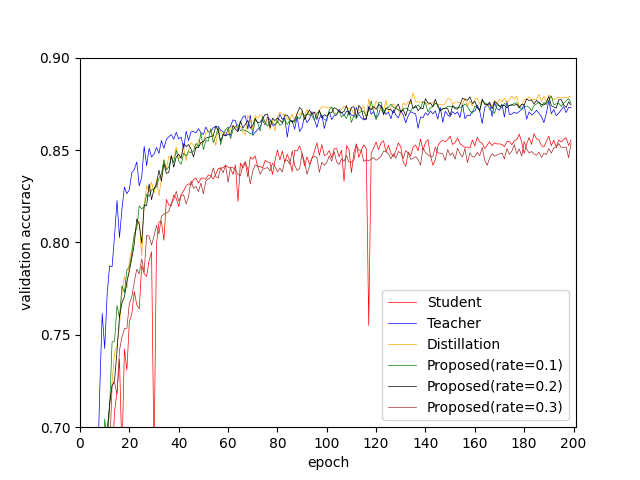
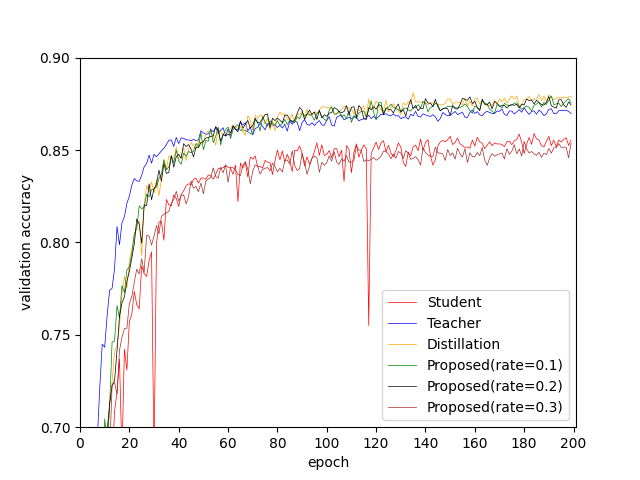
cam-distillation

Changed region(s): [[0.25, 0.2188, 0.9062, 0.3125], [0.1562, 0.3125, 0.25, 0.75], [0.125, 0.8438, 0.1562, 0.875]]

diff --git a/result.py b/result.py
@@ -13,17 +13,17 @@ def main():
     
     # loading history
     student_acc = load_hist(student_path, 1)
-    teacher_acc = load_hist(teacher_path, 1)
+    teacher_acc = load_hist(teacher_path, 5)
     st_acc = load_hist(st_path, 1)
     cam01_acc = load_hist(cam01_path, 1)
     cam02_acc = load_hist(cam02_path, 1)
-    cam03_acc = load_hist(cam05_path, 1)
+    cam05_acc = load_hist(cam05_path, 1)
     
     # print test accuracy
     student_avg = load_avg_test(student_path, 1)
     student_best = load_best_test(student_path, 1)   
-    teacher_avg = load_avg_test(teacher_path, 1)
-    teacher_best = load_best_test(teacher_path, 1)    
+    teacher_avg = load_avg_test(teacher_path, 5)
+    teacher_best = load_best_test(teacher_path, 5)    
     st_avg = load_avg_test(st_path, 1)
     st_best = load_best_test(st_path, 1)    
     cam01_avg = load_avg_test(cam01_path, 1)
@@ -52,7 +52,7 @@ def main():
     plt.plot(x, st_acc,      label='Distillation',       linewidth=0.5, color='orange')
     plt.plot(x, cam01_acc,   label='Proposed(rate=0.1)', linewidth=0.5, color='green')
     plt.plot(x, cam02_acc,   label='Proposed(rate=0.2)', linewidth=0.5, color='black')
-    plt.plot(x, cam03_acc,   label='Proposed(rate=0.3)', linewidth=0.5, color='brown')
+    plt.plot(x, cam05_acc,   label='Proposed(rate=0.3)', linewidth=0.5, color='brown')
     
     plt.xticks(np.arange(0, 210, 20))
     plt.yticks(np.arange(0, 0.95, 0.05))

diff --git a/train.py b/train.py
@@ -15,7 +15,7 @@ from src.utils import *
 import pickle
 
 def main():
-    for i in range(1):
+    for i in range(1, 5):
         print(i)
         model_size = 'teacher'
         epochs = 200
